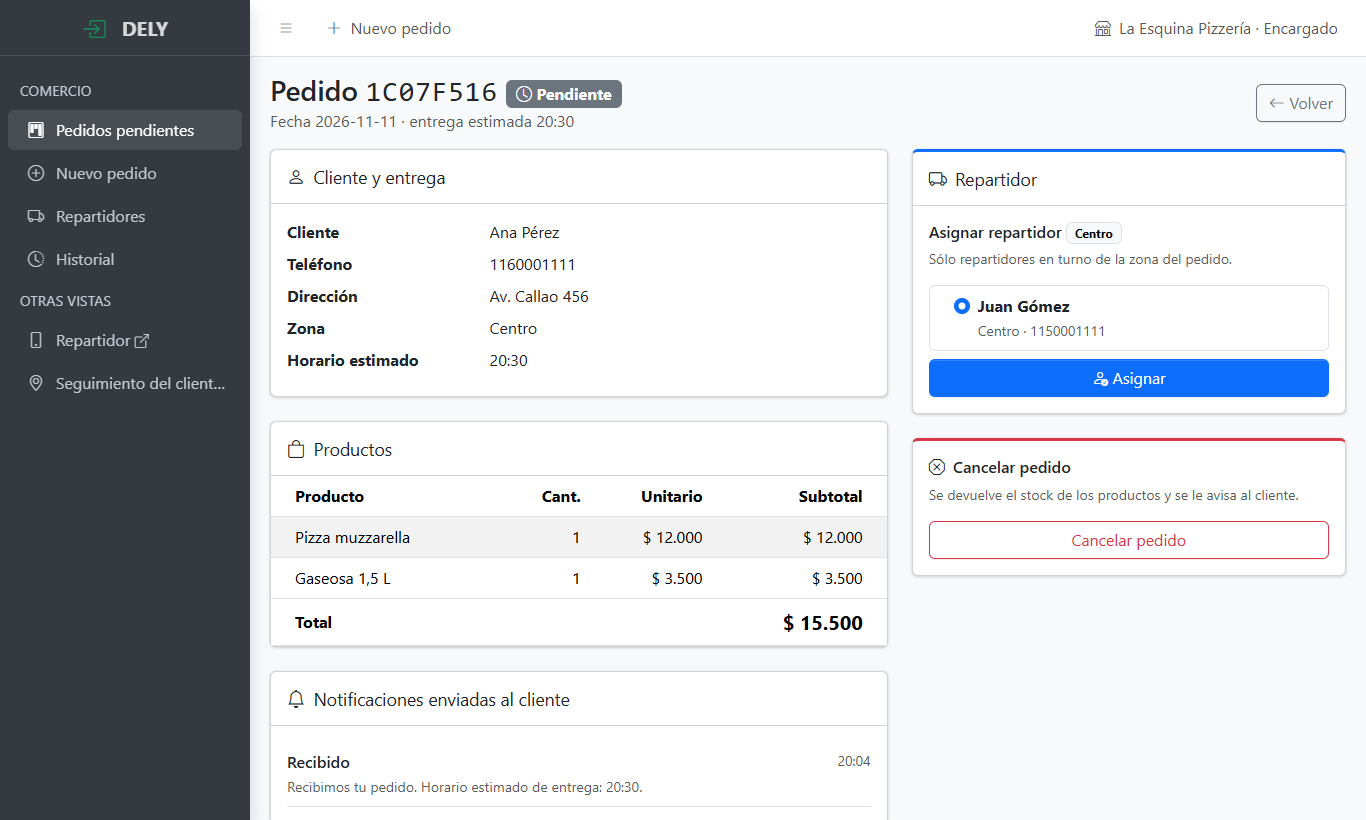
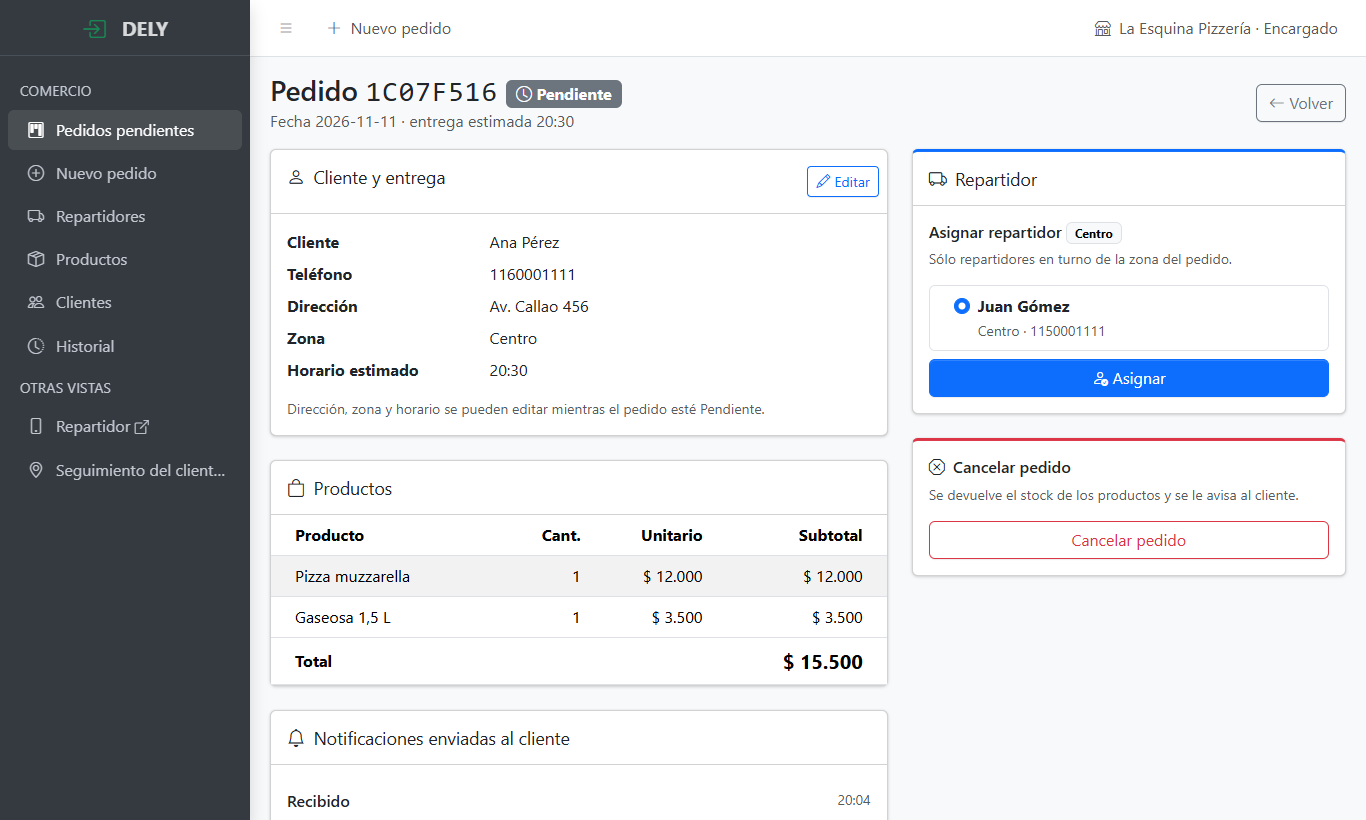
Actualizo los README y las capturas con el comercio solo en Django

diff --git a/README.md b/README.md
@@ -6,7 +6,7 @@ Sistema de gestión de entregas de última milla para comercios con repartidores
 
 Trabajo práctico de Análisis y Metodologías de Sistemas. Integrantes: Marco Passador y Valentina Ayelén De Jesús.
 
-![Tablero de pedidos del comercio](docs/capturas/02-comercio-pendientes.png)
+![Tablero de pedidos en el panel del encargado](docs/capturas/12-django-pendientes.png)
 
 ## Contenido
 
@@ -164,29 +164,27 @@ sequenceDiagram
 
 ### 1. Comercio (encargado)
 
-El encargado trabaja desde el **panel Django** (`web/`, puerto 8001). El front React también tiene una versión de estas pantallas en `/comercio`, con las mismas funciones.
-
-| Panel Django: pendientes | Panel Django: asignación |
-|---|---|
-| ![Pendientes en Django](docs/capturas/12-django-pendientes.png) | ![Asignación en Django](docs/capturas/13-django-asignar.png) |
+El encargado trabaja desde el **panel Django** (`web/`, <http://127.0.0.1:8001>). Desde el inicio del front, la tarjeta *Comercio* abre el panel.
 
 **Tablero de pendientes (HU-01).** El encargado ve los pedidos activos en tres columnas (Pendiente, Asignado y En camino), ordenados por horario estimado. Puede filtrar por zona, y un aviso marca cuántos pedidos siguen sin repartidor. Cada tarjeta muestra el código, la dirección, el cliente, la cantidad de productos, el total y el repartidor.
 
-**Cargar un pedido.** En *Nuevo pedido* busca o da de alta al cliente, suma productos (ve el stock disponible) y elige la zona y el horario. Al crear el pedido, la API valida y descuenta el stock, congela el precio vigente de cada producto y genera el código de seguimiento que se le pasa al cliente.
+**Cargar un pedido.** En *Nuevo pedido* elige al cliente, la zona y el horario, y carga las cantidades de cada producto viendo el stock disponible y el total en vivo. Al crear el pedido, la API valida y descuenta el stock, congela el precio vigente de cada producto y genera el código de seguimiento que se le pasa al cliente.
 
-![Carga de un pedido nuevo](docs/capturas/04-comercio-nuevo-pedido.png)
+![Carga de un pedido nuevo](docs/capturas/14-django-nuevo-pedido.png)
 
-**Asignar repartidor (HU-02).** Al abrir un pedido pendiente aparece el panel de detalle. El sistema ofrece **sólo los repartidores en turno de la zona del pedido** y explica por qué no aparecen los demás. Al asignarlo se crea la entrega. Mientras el repartidor no salió, el pedido se puede reasignar. Mientras esté *Pendiente* se pueden editar la dirección, la zona y el horario.
+**Asignar repartidor (HU-02).** En el detalle del pedido, el sistema ofrece **sólo los repartidores en turno de la zona del pedido**. Al asignarlo se crea la entrega. Mientras el repartidor no salió, el pedido se puede reasignar. Mientras esté *Pendiente* se pueden editar la dirección, la zona y el horario. El detalle también muestra las notificaciones que recibió el cliente.
 
-![Panel de detalle con la asignación de repartidor](docs/capturas/03-comercio-asignar.png)
+![Detalle del pedido con la asignación de repartidor](docs/capturas/13-django-asignar.png)
 
-**Cancelar.** Un pedido no entregado se puede cancelar desde el panel. La cancelación **devuelve el stock** y le avisa al cliente.
+**Cancelar.** Un pedido no entregado se puede cancelar desde el detalle. La cancelación **devuelve el stock** y le avisa al cliente.
 
-**Administración e historial.** El menú lateral incluye el ABM de repartidores (con su zona y disponibilidad), de productos y de clientes. *Historial* lista los pedidos entregados y cancelados, con la hora real de entrega y el total facturado.
+**Administración e historial.** El menú lateral incluye el alta y la edición de repartidores (con su zona y el turno), de productos (agrupados por categoría, con aviso de stock bajo) y de clientes (con buscador). Los formularios validan los datos antes de enviarlos y muestran los errores de negocio que devuelve la API. *Historial* lista los pedidos entregados y cancelados, con la hora real de entrega y el total facturado.
 
-| Repartidores | Historial |
+| Repartidores | Productos |
 |---|---|
-| ![ABM de repartidores](docs/capturas/05-comercio-repartidores.png) | ![Historial de pedidos](docs/capturas/06-comercio-historial.png) |
+| ![Repartidores](docs/capturas/15-django-repartidores.png) | ![Productos por categoría](docs/capturas/17-django-productos.png) |
+| **Clientes** | **Historial** |
+| ![Clientes](docs/capturas/18-django-clientes.png) | ![Historial de pedidos](docs/capturas/16-django-historial.png) |
 
 ### 2. Repartidor (HU-04)
 

diff --git a/web/README.md b/web/README.md
@@ -37,8 +37,8 @@ Los tests simulan las respuestas de la API, así que no hace falta tenerla corri
 | Capa | Archivos | Rol |
 |---|---|---|
 | Modelo | `panel/src/services.py` | Acceso a los datos: una función por endpoint de la API, con `requests`. Traduce los errores de la API a `ErrorApi`. |
-| Vista | `panel/templates/` | Templates de Django con AdminLTE 4, Bootstrap 5 y Bootstrap Icons |
-| Controlador | `panel/controllers/` | Vistas basadas en clase (`View` con `get` y `post`): reciben el pedido, llaman a los servicios y eligen el template |
+| Vista | `panel/templates/`, `panel/forms.py` | Templates de Django con AdminLTE 4, Bootstrap 5 y Bootstrap Icons. Los formularios validan con los mismos límites que la API. |
+| Controlador | `panel/controllers/` | Vistas basadas en clase (`View` con `get` y `post`): reciben el pedido, llaman a los servicios y eligen el template. Las altas y ediciones heredan de `FormularioController`. |
 
 ```
 web/
@@ -49,7 +49,8 @@ web/
     ├── settings.py          Configuración (lee API_URL del .env)
     ├── urls.py              Rutas → controladores
     ├── context_processors.py
-    ├── controllers/         pedidos, repartidores e historial
+    ├── forms.py             Formularios de cliente, producto, repartidor y edición de pedido
+    ├── controllers/         pedidos, repartidores, productos, clientes, historial y el formulario genérico
     ├── src/services.py      Cliente de la API con requests
     ├── templates/           base.html (layout AdminLTE) y una pantalla por ruta
     ├── templatetags/dely.py Filtros: pesos, hora y color/icono por estado
@@ -64,12 +65,15 @@ web/
 |---|---|---|
 | `/pedidos/` | Pedidos activos en columnas por estado, filtro por zona y aviso de pedidos sin repartidor | HU-01 |
 | `/pedidos/<id>/` | Detalle: cliente, productos, notificaciones enviadas, **asignación del repartidor** y cancelación | HU-02 |
+| `/pedidos/<id>/editar/` | Dirección, zona y horario de un pedido Pendiente | — |
 | `/pedidos/nuevo/` | Carga de un pedido: cliente, zona, horario y productos, con el total calculado en vivo | — |
-| `/repartidores/` | Repartidores por zona, con el botón para ponerlos en turno o sacarlos | HU-02 |
+| `/repartidores/` | Alta y edición de repartidores, y el botón para ponerlos en turno o sacarlos | HU-02 |
+| `/productos/` | Alta y edición de productos, agrupados por categoría y con aviso de stock bajo | — |
+| `/clientes/` | Alta y edición de clientes, con buscador | — |
 | `/historial/` | Pedidos entregados y cancelados, con lo facturado | — |
 
-Las vistas del **repartidor** y del **cliente** están en el front React (`frontend/`), pensado para el celular. El menú del panel tiene links a esas vistas.
+Todo lo del comercio está en este panel. Las vistas del **repartidor** y del **cliente** están en el front React (`frontend/`), pensado para el celular, y el menú del panel tiene links a esas vistas.
 
-| Asignación de repartidor | Historial |
+| Asignación de repartidor | Edición de un repartidor |
 |---|---|
-| ![Detalle con asignación](../docs/capturas/13-django-asignar.png) | ![Historial](../docs/capturas/16-django-historial.png) |
+| ![Detalle con asignación](../docs/capturas/13-django-asignar.png) | ![Formulario de repartidor](../docs/capturas/19-django-editar-repartidor.png) |
